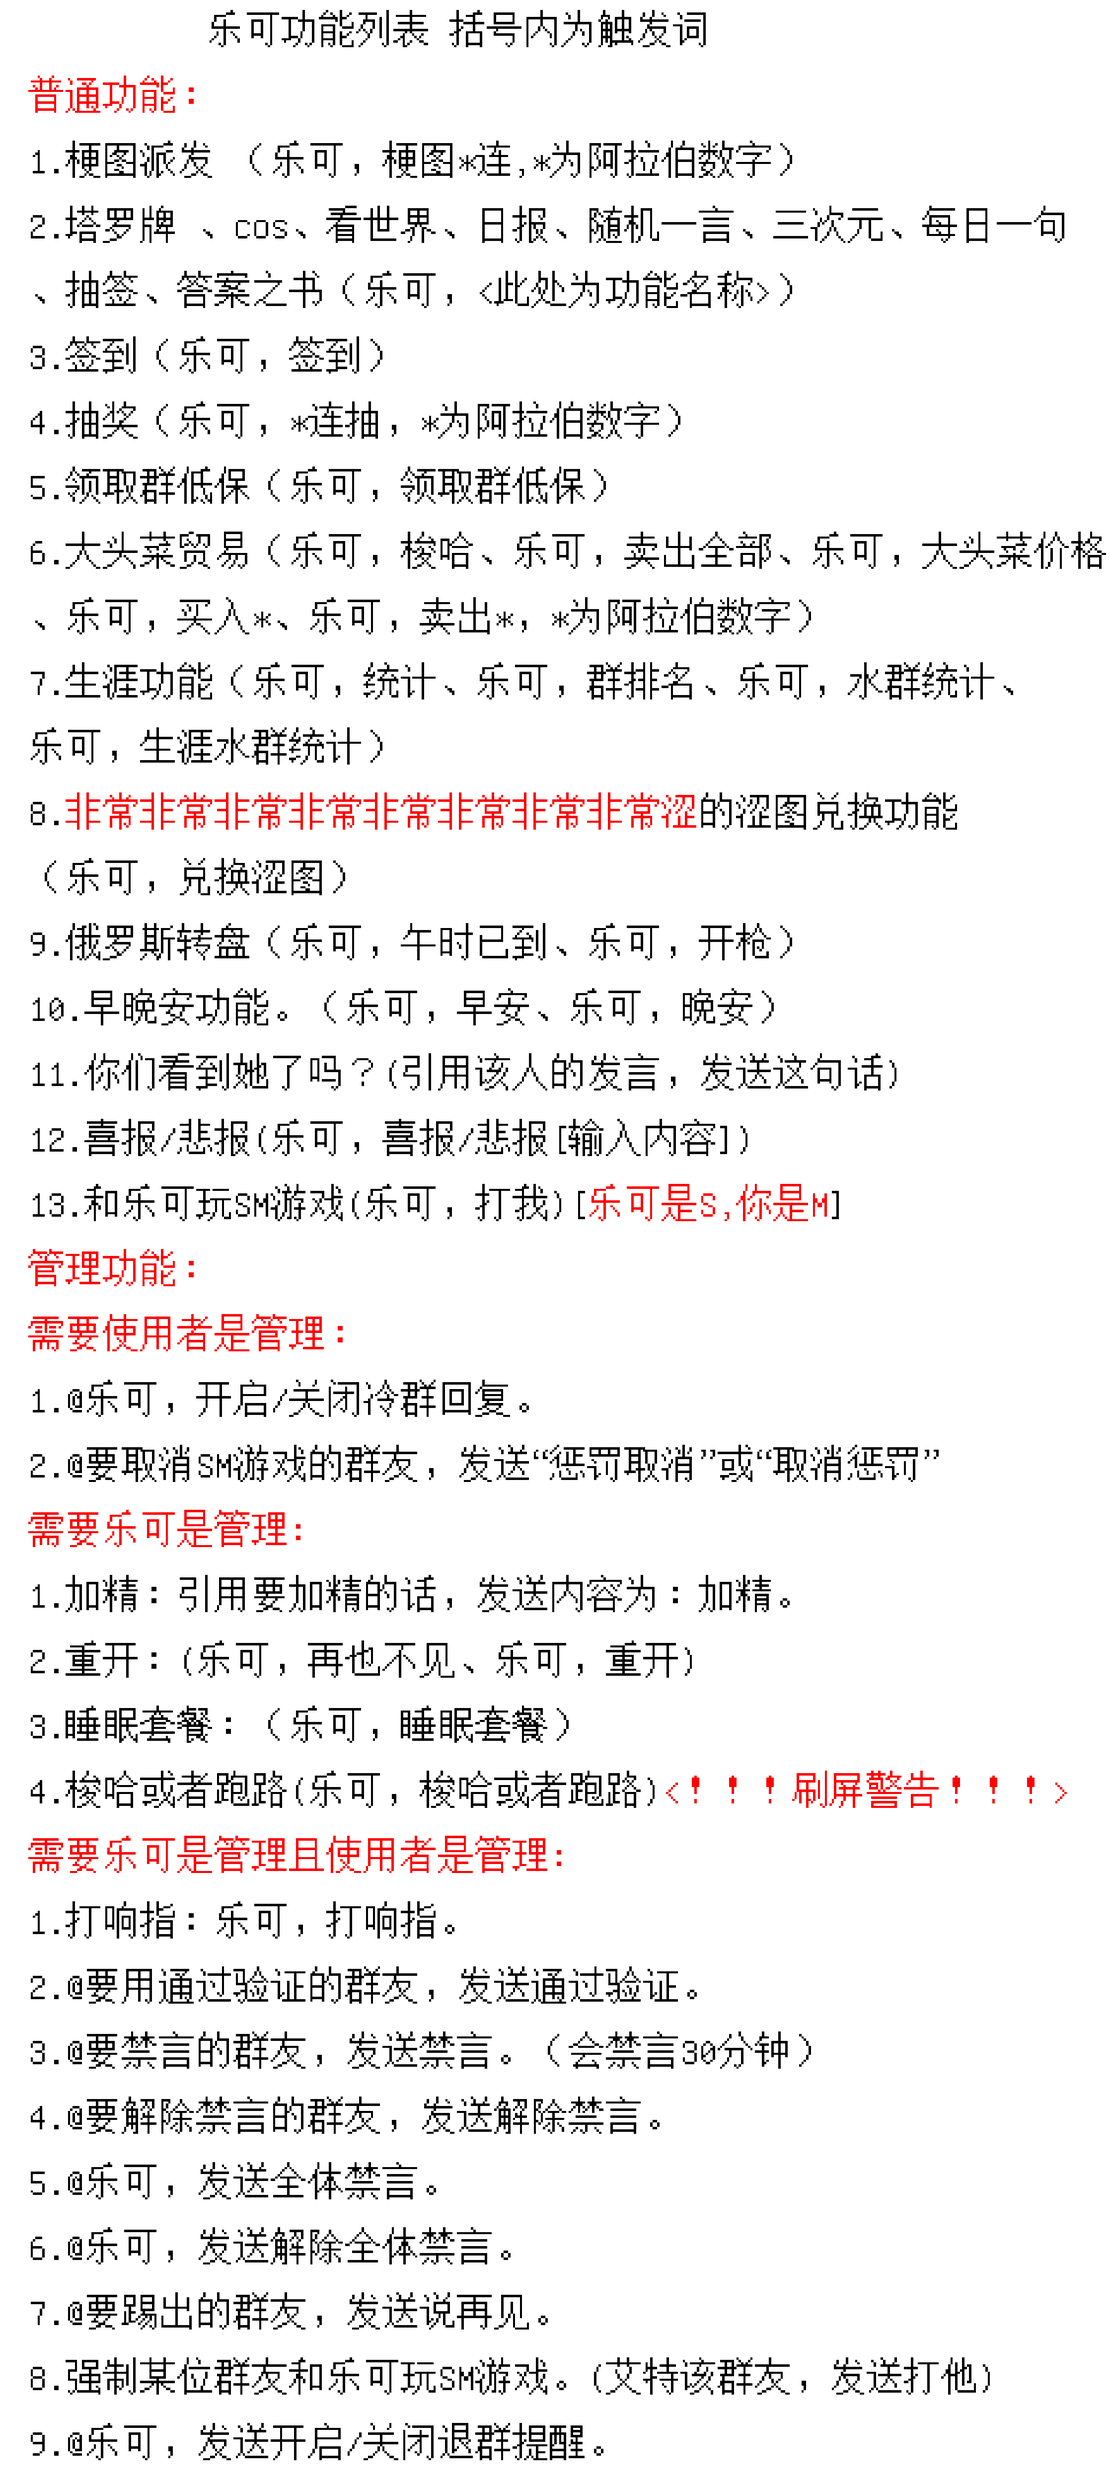
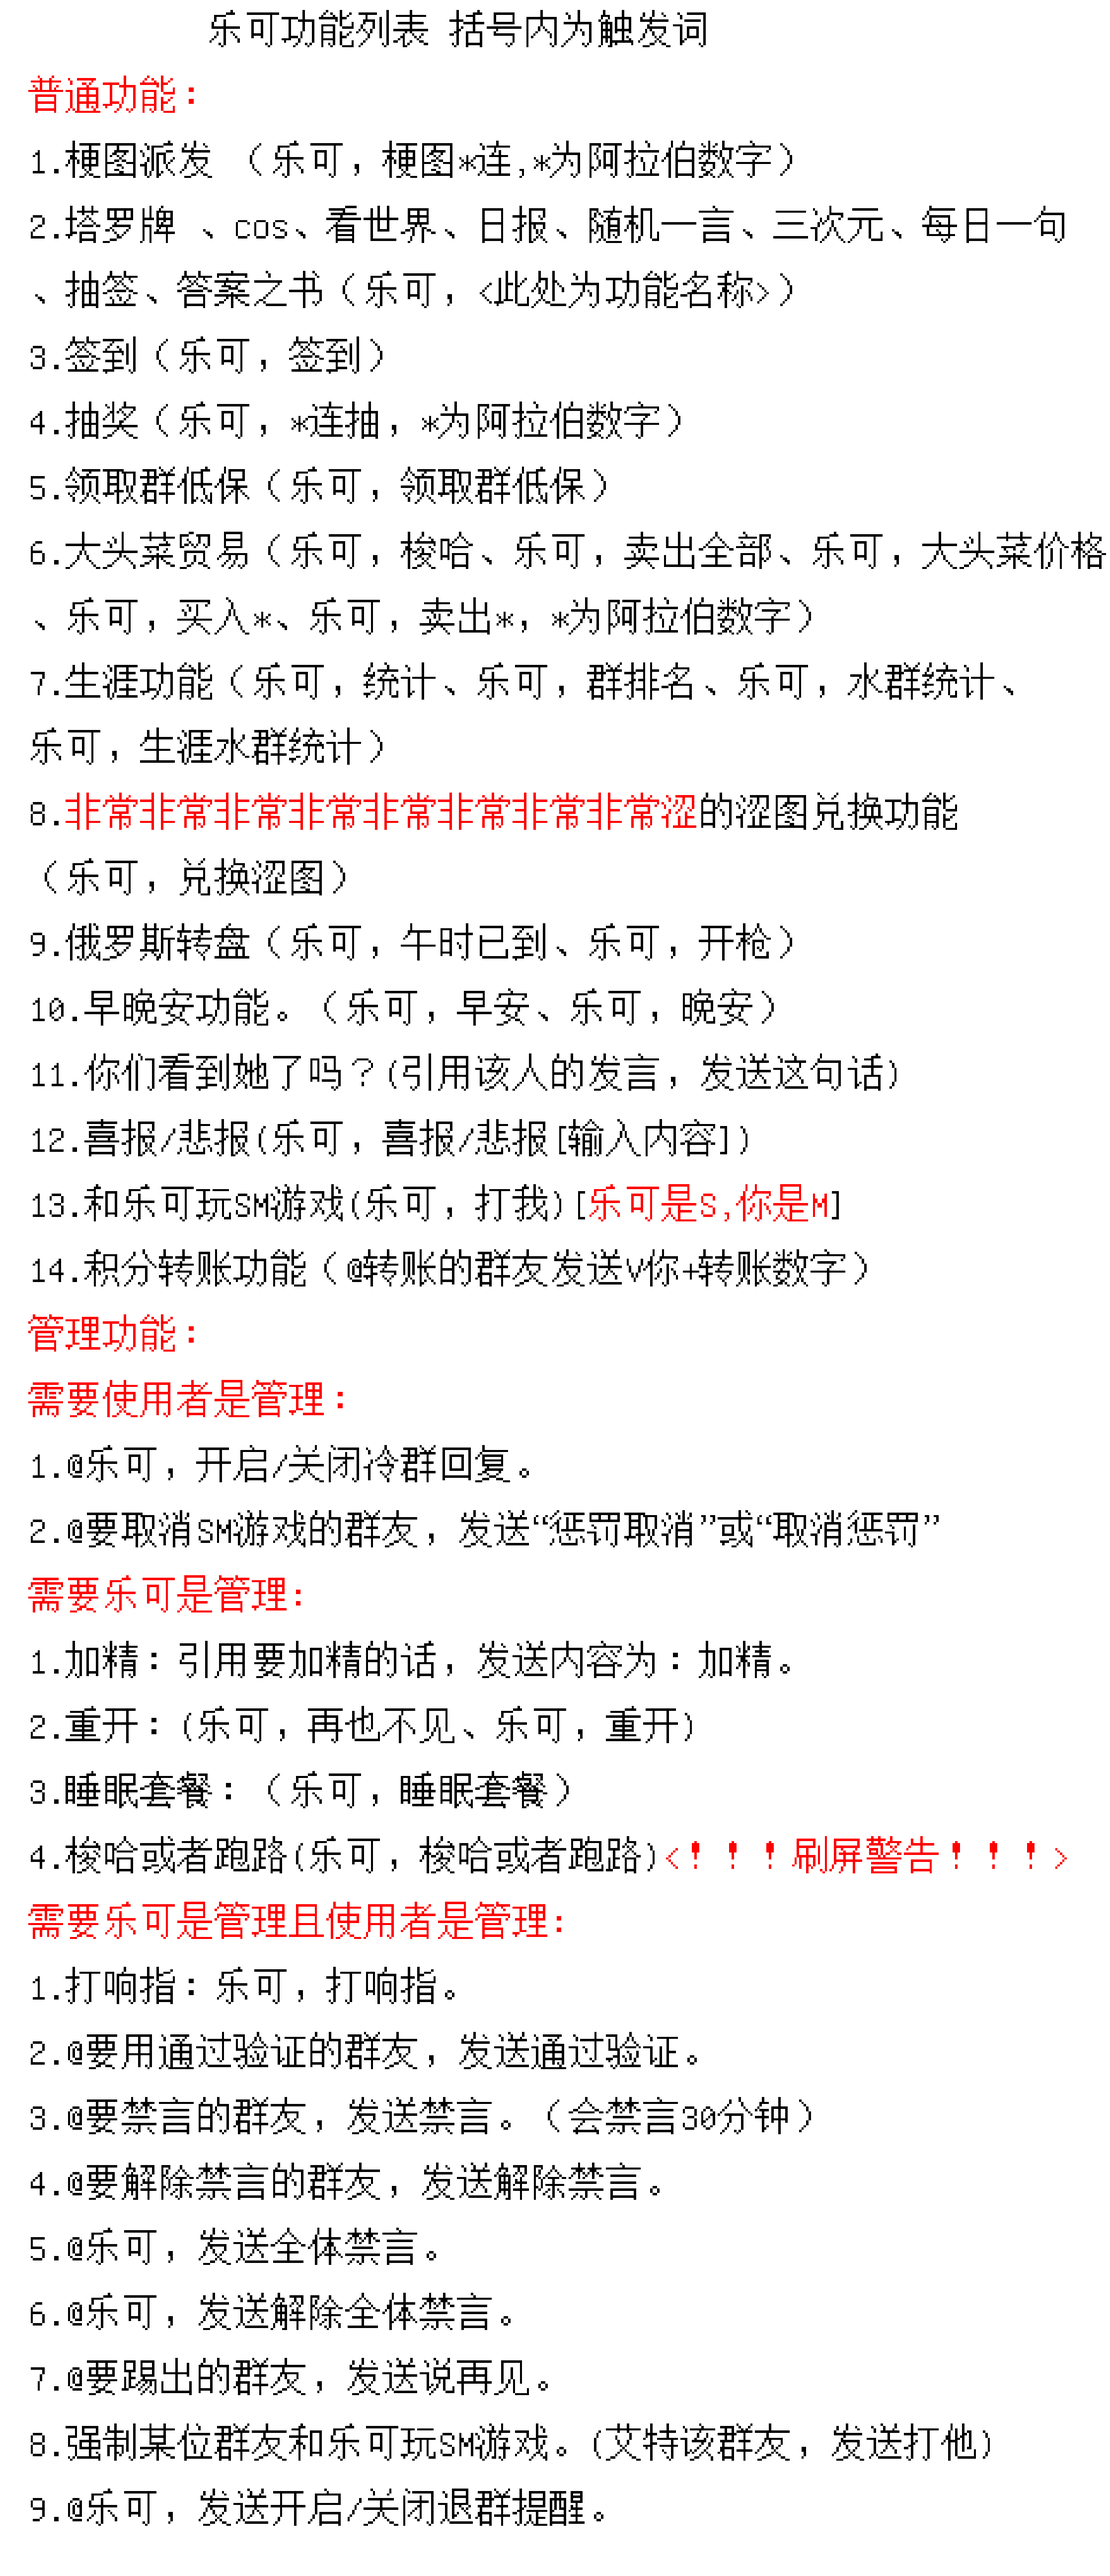
feat(chat): 添加赠送积分功能并集成到主程序
- 新增 GiveGift 函数用于处理积分赠送逻辑
- 在 main.py 中注册 GiveGift 函数
- 在 echo 函数中添加触发赠送积分的条件和调用
- 更新功能图片以包含新的赠送积分功能

diff --git a/chat.py b/chat.py
@@ -174,6 +174,35 @@ def AddWhoAtMe(user_id: int):
     conn.close()
 
 
+# 赠送积分
+async def GiveGift(
+    websocket, sender_id: int, group_id: int, receiver_id: int, point: int
+):
+    sender_point = bot_database.find_point(sender_id)
+    if point > 0:
+        if point > sender_point:
+            await say(
+                websocket,
+                group_id,
+                f"{get_user_name(sender_id, group_id)},你的积分不足喵!当前积分为{sender_point}喵。",
+            )
+        else:
+            receiver_point = bot_database.find_point(receiver_id)
+            bot_database.change_point(sender_id, group_id, sender_point - point)
+            bot_database.change_point(receiver_id, group_id, receiver_point + point)
+            await say(
+                websocket,
+                group_id,
+                f"{get_user_name(sender_id, group_id)}赠送{get_user_name(receiver_id, group_id)}{point}积分喵!",
+            )
+    else:
+        await say(
+            websocket,
+            group_id,
+            f"{get_user_name(sender_id, group_id)},赠送积分不能为负喵!",
+        )
+
+
 # 删除特定惩罚
 def DelAtPunish(user_id: int, group_id: int):
     setting = load_setting()

diff --git a/main.py b/main.py
@@ -33,6 +33,7 @@ from chat import (
     DelAtPunish,
     GetColdGroupStatus,
     GetGroupDecreaseMessageStatus,
+    GiveGift,
     Joke,
     SwitchColdGroupChat,
     SwitchGroupDecreaseMessage,
@@ -243,6 +244,15 @@ async def echo(websocket):
                                             await kick_member(
                                                 websocket, at_id, group_id
                                             )
+                                    elif HasKeyWords(raw_message, ["送你","V你","v你"]):
+                                        num = re.findall("\d+", raw_message)
+                                        if len(num) >= 2:
+                                            num = int(num[1])
+                                        else:
+                                            num = 0
+                                        await GiveGift(
+                                            websocket, user_id, group_id, at_id, num
+                                        )
                                     elif HasKeyWords(
                                         raw_message, ["惩罚取消", "取消惩罚"]
                                     ) and (user_id != at_id or IsDeveloper(user_id)):
